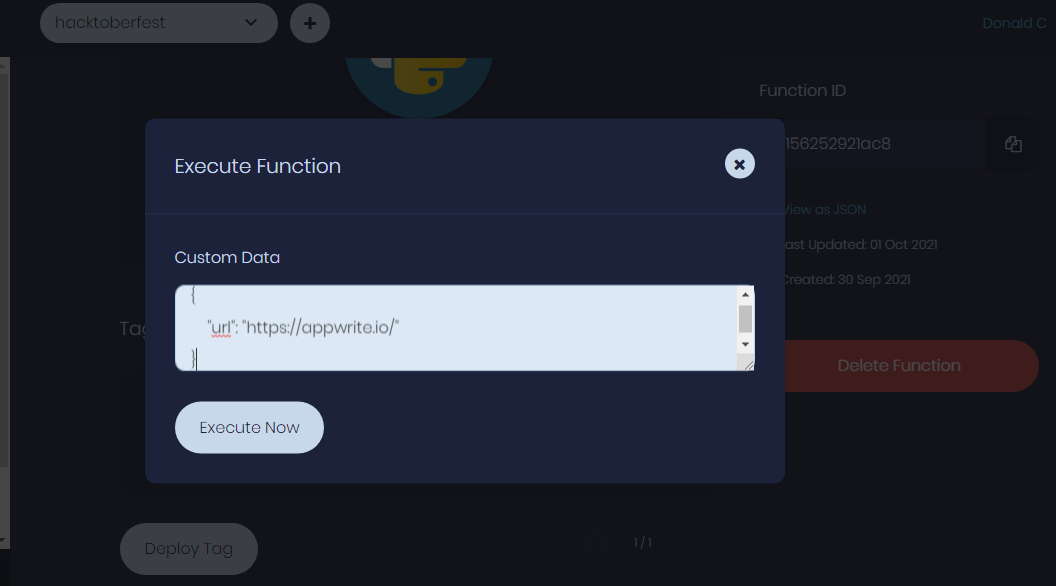
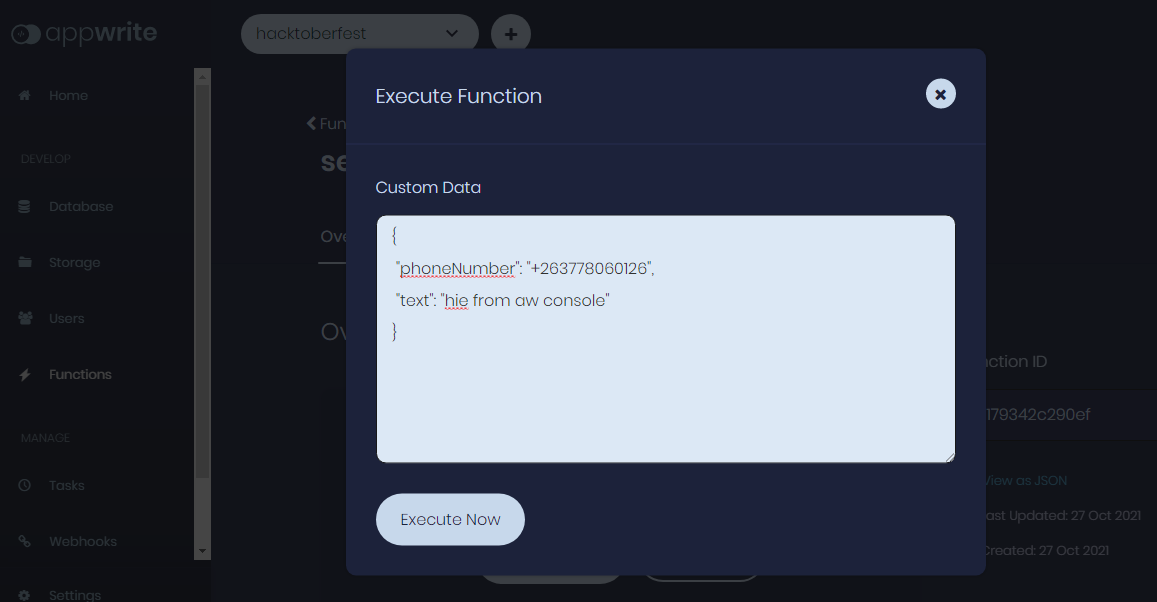
final commit

diff --git a/python/send-whatsapp-message/main.py b/python/send-whatsapp-message/main.py
@@ -1,11 +1,12 @@
 import os
 from twilio.rest import Client
+import json
 
 account_sid = os.environ['ACCOUNT_SID']
 auth_token = os.environ['AUTH_TOKEN']
 from_number = os.environ['FROM_NUMBER']
 
-data = os.environ.get("APPWRITE_FUNCTION_DATA")
+data = json.loads(os.environ["APPWRITE_FUNCTION_DATA"])
 
 try:
     client = Client(account_sid, auth_token)

diff --git a/python/send-whatsapp-message/README.md b/python/send-whatsapp-message/README.md
@@ -4,6 +4,7 @@ A Python Cloud Function to send a WhatsApp message to a number using Twilio API.
 
 ## 🚀 Result
 ![result](docs-images/result.png)
+![res](docs-images/result-log.png)
 <br>
 
 
